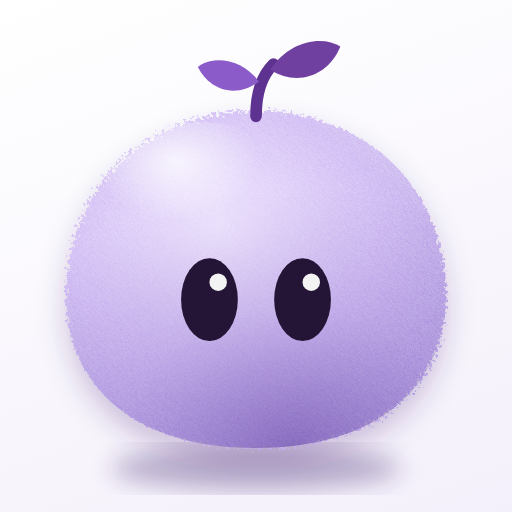
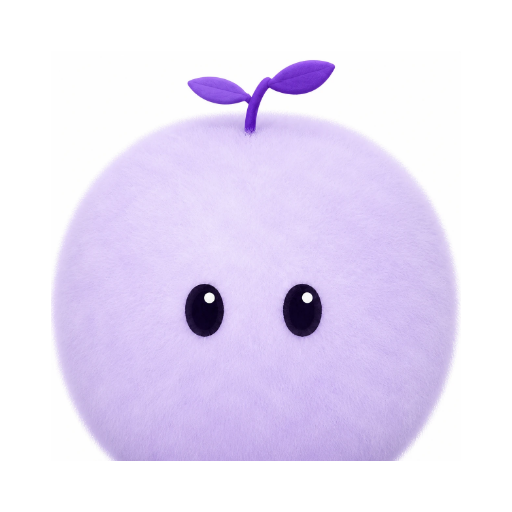
Add files via upload

diff --git a/app.js b/app.js
@@ -2035,7 +2035,7 @@ if (window.matchMedia) matchMedia('(prefers-color-scheme: dark)').addEventListen
           <div class="qa-head"><b id="qa-title">바로 기록하기</b><button type="button" class="qa-x" data-close="1" aria-label="닫기">×</button></div>
           <div class="qa-tabs" data-on="quick"><i></i><button type="button" data-mode="quick" class="on">빠른 입력</button><button type="button" data-mode="direct">직접 입력</button></div>
           <div class="qa-quick">
-            <div class="qa-hero"><img class="semi semi-bob" src="/icons/semi-blink.svg" width="92" height="92" alt="" aria-hidden="true"><b>말하듯이 적으면 셈이가 정리해요</b><span>내용과 금액만 적으면 자동으로 분류돼요</span></div>
+            <div class="qa-hero"><img class="semi semi-bob" src="/icons/semi-3d.png" width="92" height="92" alt="" aria-hidden="true"><b>말하듯이 적으면 셈이가 정리해요</b><span>내용과 금액만 적으면 자동으로 분류돼요</span></div>
             <div class="qa-tbox"><textarea class="qa-text" rows="1" maxlength="400" placeholder="예: 애플뮤직 8,900 커피 4,500" aria-label="빠른 입력: 이름과 금액" autocomplete="off" enterkeyhint="enter"></textarea></div>
             <div class="qa-tmeta"><span></span><button type="button" data-sub="help"><svg viewBox="0 0 24 24" width="15" height="15" fill="none" stroke="currentColor" stroke-width="2" stroke-linecap="round" aria-hidden="true"><circle cx="12" cy="12" r="9"/><path d="M9.6 9.3a2.5 2.5 0 0 1 4.8.9c0 1.7-2.4 2.2-2.4 3.6M12 17h.01"/></svg>쓰는 법</button></div>
             <div class="qa-items" hidden></div>
@@ -3451,7 +3451,7 @@ semiTks();
   const save = o => { try { localStorage.setItem('donsem:chat-style', JSON.stringify(Object.assign(get(), o))); } catch (e) { /* 저장이 막힌 브라우저 */ } apply(); draw(); };
   const draw = () => {
     const v = get();
-    sw.innerHTML = CS.map(c => `<button type="button" role="radio" aria-checked="${c === v.c}" class="${c === v.c ? 'on' : ''}" data-c="${c}" aria-label="${c || '기본 보라'}" style="background:${c || 'var(--blue)'}">${c ? '' : '<img src="/icons/semi-blink.svg" alt="">'}</button>`).join('');
+    sw.innerHTML = CS.map(c => `<button type="button" role="radio" aria-checked="${c === v.c}" class="${c === v.c ? 'on' : ''}" data-c="${c}" aria-label="${c || '기본 보라'}" style="background:${c || 'var(--blue)'}">${c ? '' : '<img src="/icons/semi-3d.png" alt="">'}</button>`).join('');
     document.querySelectorAll('.cs-seg').forEach(g => g.querySelectorAll('button').forEach(b => b.classList.toggle('on', b.dataset.v === v[g.dataset.cs])));
   };
   sw.addEventListener('click', e => { const b = e.target.closest('[data-c]'); if (b) save({ c: b.dataset.c }); });
@@ -3559,11 +3559,11 @@ function semiTodos() {
   let uid = 0;
   const spark = size => { const id = 'aig' + (++uid); return `<svg width="${size}" height="${size}" viewBox="0 0 24 24" aria-hidden="true"><defs><linearGradient id="${id}" x1="6" y1="5" x2="17" y2="18" gradientUnits="userSpaceOnUse"><stop offset="0" stop-color="#34d399"/><stop offset=".5" stop-color="#38bdf8"/><stop offset="1" stop-color="#8b5cf6"/></linearGradient></defs><path fill="url(#${id})" d="M11 3c.5 4.6 3.4 7.5 8 8-4.6.5-7.5 3.4-8 8-.5-4.6-3.4-7.5-8-8 4.6-.5 7.5-3.4 8-8z"/><path fill="url(#${id})" d="M19 1.5c.2 1.6 1 2.4 2.5 2.5-1.5.2-2.3 1-2.5 2.5-.2-1.5-1-2.3-2.5-2.5 1.5-.1 2.3-.9 2.5-2.5z" opacity=".85"/></svg>`; };
   const btn = document.createElement('button');
-  const semi = (size, cls = '', face = 'default') => `<img class="semi ${cls}" src="/icons/semi-blink.svg" data-face="${face}" width="${size}" height="${size}" alt="" aria-hidden="true">`;
+  const semi = (size, cls = '', face = 'default') => `<img class="semi ${cls}" src="/icons/semi-3d.png" data-face="${face}" width="${size}" height="${size}" alt="" aria-hidden="true">`;
   btn.type = 'button'; btn.className = 'ai-btn'; btn.setAttribute('aria-label', '셈이에게 물어보기'); btn.innerHTML = semi(32);
   right.prepend(btn);
   // 마우스를 올리면 찡긋 (장난)
-  btn.firstChild.src = '/icons/semi-blink.svg'; // 11-23: 찡긋 대신 앱 아이콘 셈이가 눈만 깜빡여요
+  btn.firstChild.src = '/icons/semi-3d.png'; // 11-23: 찡긋 대신 앱 아이콘 셈이가 눈만 깜빡여요
 
   const SUGGEST = ['연봉 4천 실수령액', '커피 4500원 썼어', '월세 50만 매달 25일', '12만원 4명 나눠줘', '이번 달 얼마 썼어?','내 순자산은?', '다음 결제는 언제야?', '연말정산 월세 공제 조건', 'ISA랑 연금저축 차이', '주휴수당 받는 조건', '실업급여 자진퇴사', '백업은 어떻게 해?', '적금 이자가 생각보다 적은 이유'];
   let box = null, kb = null, kbWait = null;
@@ -3866,7 +3866,7 @@ function semiTodos() {
         html = `<div class="ai-a"><p>음… 그건 아직 잘 모르겠어요. 다른 말로 물어봐 주세요.${calc ? '' : ' 계산이 필요하면 모든 계산기에서 찾아볼 수 있어요.'}</p>${calc ? `<a class="ai-go" href="${calc[0]}">${esc(calc[1])} 계산기 열기 ›</a>` : '<a class="ai-go" href="/calculators/">모든 계산기 보기 ›</a>'}</div>`;
       }
       const face = talk ? 'wink' : did ? did.face : my ? 'default' : hits.length ? 'happy' : 'worry'; // 답을 찾으면 웃고, 못 찾으면 고민해요
-      log.insertAdjacentHTML('beforeend', html); { const ava = box.querySelector('.ai-ava img'); if (ava) ava.src = '/icons/semi-blink.svg'; } // 11-23: 표정은 바꾸지 않고 앱 아이콘 셈이가 눈만 깜빡여요
+      log.insertAdjacentHTML('beforeend', html); { const ava = box.querySelector('.ai-ava img'); if (ava) ava.src = '/icons/semi-3d.png'; } // 11-23: 표정은 바꾸지 않고 앱 아이콘 셈이가 눈만 깜빡여요
       requestAnimationFrame(() => body.scrollTo({ top: body.scrollHeight, behavior: 'smooth' }));
       setTimeout(() => body.scrollTo({ top: body.scrollHeight, behavior: 'smooth' }), 400); // 입력창 높이가 바뀐 뒤에도 답이 가려지지 않게 한 번 더
     };
@@ -3881,7 +3881,7 @@ function semiTodos() {
       if (ok || no) {
         const id = (ok || no).dataset.ok || (ok || no).dataset.no, job = pend.get(id), card = (ok || no).closest('.ai-a');
         pend.delete(id);
-        if (card && job) { let res; try { res = ok ? job() : '<b>취소했어요.</b><p>아무것도 저장하지 않았어요.</p>'; } catch (err) { res = '<b>저장하지 못했어요 😢</b><p>이 브라우저에서는 저장이 막혀 있어요.</p>'; } card.innerHTML = res; const ava = box.querySelector('.ai-ava img'); if (ava) ava.src = '/icons/semi-blink.svg'; }
+        if (card && job) { let res; try { res = ok ? job() : '<b>취소했어요.</b><p>아무것도 저장하지 않았어요.</p>'; } catch (err) { res = '<b>저장하지 못했어요 😢</b><p>이 브라우저에서는 저장이 막혀 있어요.</p>'; } card.innerHTML = res; const ava = box.querySelector('.ai-ava img'); if (ava) ava.src = '/icons/semi-3d.png'; }
       }
       // 정산 요청·초대: 휴대폰이면 카카오톡 등 공유 창이 뜨고, 컴퓨터면 링크를 복사해요
       const sh = e.target.closest('[data-share]'), inv = e.target.closest('.ai-inv');
@@ -3893,7 +3893,7 @@ function semiTodos() {
       }
       const ex = e.target.closest('[data-ex]'); if (ex) box.querySelector('.ai-ex-in').innerHTML = exploreHtml(+ex.dataset.ex);
       if (e.target.closest('.ai-x')) close();
-      if (e.target.closest('.ai-new')) { log.innerHTML = helloHtml(); box.classList.remove('chatting'); body.scrollTo({ top: 0 }); const ava = box.querySelector('.ai-ava img'); if (ava) ava.src = '/icons/semi-blink.svg'; }
+      if (e.target.closest('.ai-new')) { log.innerHTML = helloHtml(); box.classList.remove('chatting'); body.scrollTo({ top: 0 }); const ava = box.querySelector('.ai-ava img'); if (ava) ava.src = '/icons/semi-3d.png'; }
       if (e.target.closest('.ai-plus')) { close(); if (window.openQuickAdd) setTimeout(() => window.openQuickAdd(), 250); }
     });
     box.addEventListener('keydown', e => { if (e.key === 'Escape') close(); });
@@ -4420,7 +4420,7 @@ const GUIDE_FOR = {
   const out = semiTodos(); // 내 기록과 날짜로 고른 '먼저 챙겨 줄 일'
   const sec = document.createElement('section');
   sec.className = 'semi-card'; sec.setAttribute('aria-label', '셈이가 챙겨 줄게요');
-  sec.innerHTML = `<div class="semi-head"><button type="button" class="semi-poke" aria-label="셈이 쓰다듬기"><img class="semi semi-bob" src="/icons/semi-blink.svg" width="58" height="58" alt=""></button><div><b>셈이가 챙겨 줄게요</b><span>내 기록과 오늘 날짜를 보고 골랐어요</span></div></div>
+  sec.innerHTML = `<div class="semi-head"><button type="button" class="semi-poke" aria-label="셈이 쓰다듬기"><img class="semi semi-bob" src="/icons/semi-3d.png" width="58" height="58" alt=""></button><div><b>셈이가 챙겨 줄게요</b><span>내 기록과 오늘 날짜를 보고 골랐어요</span></div></div>
     <ul>${out.slice(0, 3).map(([ico, t, d, go]) => `<li><${go.href ? `a href="${go.href}"` : `button type="button" data-q="${esc(go.q)}"`} class="semi-row"><span class="semi-ico" aria-hidden="true">${ico}</span><span><b>${t}</b><small>${esc(d)}</small></span></${go.href ? 'a' : 'button'}></li>`).join('')}</ul>
     <div class="semi-flow" aria-label="셈이에게 이렇게 맡겨 보세요"><div class="semi-flow-in">${[0, 1].map(k => SEMI_FLOW.map(([ico, t, q]) => `<button type="button" data-q="${esc(q)}"${k ? ' tabindex="-1" aria-hidden="true"' : ''}><span aria-hidden="true">${ico}</span>${t}</button>`).join('')).join('')}</div></div>
     <button type="button" class="semi-ask">셈이에게 대신 맡기기</button>`;
@@ -4431,7 +4431,7 @@ const GUIDE_FOR = {
     const q = e.target.closest('[data-q]'); if (q && window.donsemAsk) window.donsemAsk(q.dataset.q);
     if (e.target.closest('.semi-ask') && window.donsemAsk) window.donsemAsk();
     const pk = e.target.closest('.semi-poke'); // 누르면 행복한 표정으로 통 튀어요
-    if (pk) { const im = pk.firstChild; im.src = '/icons/semi-blink.svg'; pk.classList.remove('hop'); void pk.offsetWidth; pk.classList.add('hop'); clearTimeout(pk._t); pk._t = setTimeout(() => { im.src = '/icons/semi-blink.svg'; }, 1400); }
+    if (pk) { const im = pk.firstChild; im.src = '/icons/semi-3d.png'; pk.classList.remove('hop'); void pk.offsetWidth; pk.classList.add('hop'); clearTimeout(pk._t); pk._t = setTimeout(() => { im.src = '/icons/semi-3d.png'; }, 1400); }
   });
 })();
 

diff --git a/shop.js b/shop.js
@@ -3,7 +3,7 @@
   /* 클라이언트 키는 공개돼도 되는 키예요(시크릿 키는 워커 비밀에만 있어요). 심사가 끝나면 live_gck_… 로 바꿔요 */
   const CLIENT_KEY = 'live_gck_c19weG0gk7hCw83pftwraGuHV5slsB97Bp';
   const API = 'https://donsem-counter.hjjung330.workers.dev';
-  const PRODUCTS = { budget: { name: '돈셈 가계부·재테크 엑셀 템플릿', price: 9900, img: '/shop/sheet-summary.png' }, yearend: { name: '돈셈 연말정산 준비 키트', price: 4900, img: '/shop/kit-yearend-card.png' }, starter: { name: '돈셈 사회초년생 돈 관리 키트', price: 6900, img: '/shop/kit-starter-fixed.png' }, pro1y: { name: '돈셈 Pro 1년 이용권', price: 19900, img: '/icon-192.png', pass: true }, semitk3: { name: '셈이 한도 초기화 티켓 3장', price: 1900, img: '/icons/semi-blink.svg', pass: true, key: 'donsem:semi-tk', open: '/my/', label: '마이에서 보기', on: '초기화 티켓 3장이 들어왔어요. 셈이 사용량을 다 쓰면 마이 › 일일 사용량 한도에서 티켓을 써 주세요.' }, semitk10: { name: '셈이 한도 초기화 티켓 10장', price: 4900, img: '/icons/semi-blink.svg', pass: true, key: 'donsem:semi-tk', open: '/my/', label: '마이에서 보기', on: '초기화 티켓 10장이 들어왔어요. 셈이 사용량을 다 쓰면 마이 › 일일 사용량 한도에서 티켓을 써 주세요.' }, redevplus1y: { name: '돈셈 조합원 플러스 1년 이용권', price: 29000, img: '/icons/real-estate.webp', pass: true, key: 'donsem:redevplus-pass', open: '/redev/#rdp', label: '플러스 열기', on: '조합원 플러스가 켜졌어요. 재건축 조합원 도우미에서 「알림 켜기」를 누르면 내 구역 소식을 휴대폰으로 받아요.' }, redev1y: { name: '재건축 조합원 맞춤 리포트 1년 이용권', price: 9900, img: '/icons/real-estate.webp', pass: true, key: 'donsem:redev-pass', open: '/redev/#rdr', label: '리포트 열기', on: '맞춤 리포트가 열렸어요. 오늘부터 1년 동안 내 구역 숫자가 바뀔 때마다 다시 볼 수 있어요.' } };
+  const PRODUCTS = { budget: { name: '돈셈 가계부·재테크 엑셀 템플릿', price: 9900, img: '/shop/sheet-summary.png' }, yearend: { name: '돈셈 연말정산 준비 키트', price: 4900, img: '/shop/kit-yearend-card.png' }, starter: { name: '돈셈 사회초년생 돈 관리 키트', price: 6900, img: '/shop/kit-starter-fixed.png' }, pro1y: { name: '돈셈 Pro 1년 이용권', price: 19900, img: '/icon-192.png', pass: true }, semitk3: { name: '셈이 한도 초기화 티켓 3장', price: 1900, img: '/icons/semi-3d.png', pass: true, key: 'donsem:semi-tk', open: '/my/', label: '마이에서 보기', on: '초기화 티켓 3장이 들어왔어요. 셈이 사용량을 다 쓰면 마이 › 일일 사용량 한도에서 티켓을 써 주세요.' }, semitk10: { name: '셈이 한도 초기화 티켓 10장', price: 4900, img: '/icons/semi-3d.png', pass: true, key: 'donsem:semi-tk', open: '/my/', label: '마이에서 보기', on: '초기화 티켓 10장이 들어왔어요. 셈이 사용량을 다 쓰면 마이 › 일일 사용량 한도에서 티켓을 써 주세요.' }, redevplus1y: { name: '돈셈 조합원 플러스 1년 이용권', price: 29000, img: '/icons/real-estate.webp', pass: true, key: 'donsem:redevplus-pass', open: '/redev/#rdp', label: '플러스 열기', on: '조합원 플러스가 켜졌어요. 재건축 조합원 도우미에서 「알림 켜기」를 누르면 내 구역 소식을 휴대폰으로 받아요.' }, redev1y: { name: '재건축 조합원 맞춤 리포트 1년 이용권', price: 9900, img: '/icons/real-estate.webp', pass: true, key: 'donsem:redev-pass', open: '/redev/#rdr', label: '리포트 열기', on: '맞춤 리포트가 열렸어요. 오늘부터 1년 동안 내 구역 숫자가 바뀔 때마다 다시 볼 수 있어요.' } };
   const LIVE = CLIENT_KEY.startsWith('live_');
   const q = new URLSearchParams(location.search);
   /* 2026-11-18: 상품을 새로 만드는 동안 판매를 잠시 쉬어요. 이미 산 분의 「다시 받기」와 결제 중이던 승인(s=ok)은 그대로 돼요. 다시 열 때 true */

diff --git a/index.html b/index.html
@@ -18,12 +18,12 @@
 <meta name="twitter:card" content="summary_large_image">
 <link rel="preconnect" href="https://cdn.jsdelivr.net" crossorigin>
 <link rel="stylesheet" href="https://cdn.jsdelivr.net/gh/orioncactus/pretendard@v1.3.9/dist/web/variable/pretendardvariable-dynamic-subset.min.css" media="print" onload="this.media='all'">
-<link rel="icon" href="/favicon.ico?v=2026112303" sizes="48x48">
-<link rel="icon" href="/favicon-32.png?v=2026112303" sizes="32x32" type="image/png">
-<link rel="icon" href="/favicon-96.png?v=2026112303" sizes="96x96" type="image/png">
-<link rel="icon" href="/favicon.svg?v=2026112303" type="image/svg+xml">
-<link rel="icon" href="/icon-192.png?v=2026112303" sizes="192x192" type="image/png">
-<link rel="apple-touch-icon" href="/apple-touch-icon.png?v=2026112303">
+<link rel="icon" href="/favicon.ico?v=2026112401" sizes="48x48">
+<link rel="icon" href="/favicon-32.png?v=2026112401" sizes="32x32" type="image/png">
+<link rel="icon" href="/favicon-96.png?v=2026112401" sizes="96x96" type="image/png">
+<link rel="icon" href="/favicon.svg?v=2026112401" type="image/svg+xml">
+<link rel="icon" href="/icon-192.png?v=2026112401" sizes="192x192" type="image/png">
+<link rel="apple-touch-icon" href="/apple-touch-icon.png?v=2026112401">
 <link rel="manifest" href="/manifest.webmanifest">
 <meta name="theme-color" content="#ffffff">
 <meta name="mobile-web-app-capable" content="yes">

diff --git a/style.css b/style.css
@@ -4661,3 +4661,5 @@ html body .ai-chips button { background: rgba(244, 244, 246, .38) !important; -w
 .srch-semi { display: flex; align-items: center; gap: 10px; max-height: 0; overflow: hidden; opacity: 0; transition: opacity .3s, max-height .3s, margin .3s; }
 .srch-semi.on { max-height: 60px; opacity: 1; margin: 4px 0 10px; }
 @media (prefers-reduced-motion: reduce) { .semi-lap, .ai-searching i, .srch-semi i { animation: none !important; } }
+/* 11-24 3D 털 셈이 그림 (사진이라 찌그러지지 않게) */
+img[src*="semi-3d.png"] { object-fit: contain; }
